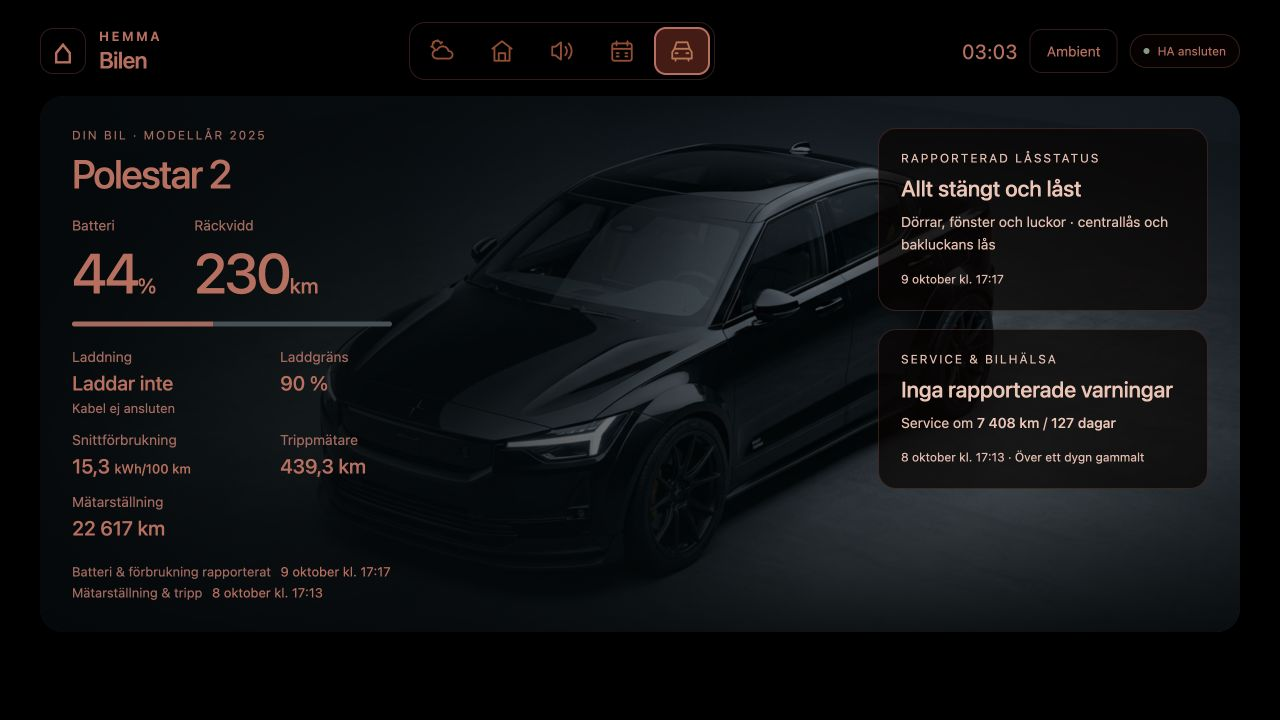
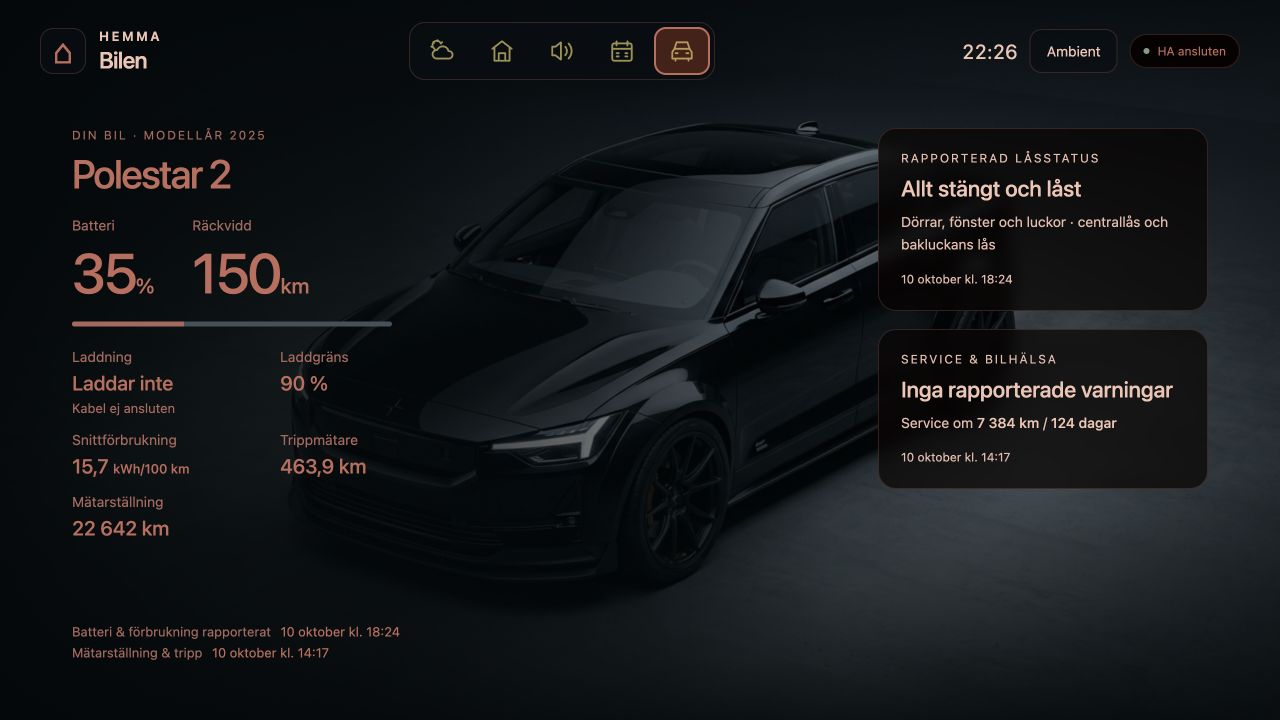
Use full-screen car backdrop behind navigation

diff --git a/src/app.css b/src/app.css
@@ -3494,3 +3494,48 @@ html[data-theme='night'] .view-car {
 .dashboard .view-nav svg {
   display: block;
 }
+
+/* Full-screen car photo; the dashboard isolates its fixed background layers. */
+.dashboard.view-car {
+  position: relative;
+  isolation: isolate;
+  max-width: none;
+  background: transparent;
+}
+.dashboard.view-car > header {
+  position: relative;
+}
+.dashboard.view-car > header::before {
+  content: '';
+  position: fixed;
+  z-index: -1;
+  inset: 0 0 auto;
+  height: 120px;
+  background: linear-gradient(180deg, rgba(7, 13, 18, 0.8), rgba(7, 13, 18, 0));
+  pointer-events: none;
+}
+.dashboard.view-car
+  > header
+  :is(.brand, .clock, .eyebrow, .theme-toggle, .view-nav button) {
+  color: #f2f5f6;
+}
+.dashboard.view-car :is(.view-nav, .theme-toggle, .brand-icon) {
+  background: rgba(7, 13, 18, 0.68);
+  border-color: rgba(255, 255, 255, 0.25);
+}
+.dashboard.view-car .view-nav button[aria-current] {
+  background: #38544b;
+  color: #fff;
+}
+html[data-theme='deep-ambient']
+  .dashboard.view-car
+  > header
+  :is(.brand, .clock, .eyebrow, .theme-toggle, .view-nav button) {
+  color: #f3c3b4;
+}
+html[data-theme='deep-ambient']
+  .dashboard.view-car
+  .view-nav
+  button[aria-current] {
+  background: #482018;
+}

diff --git a/src/lib/components/CarView.svelte b/src/lib/components/CarView.svelte
@@ -239,11 +239,11 @@
 <style>
   .car-view {
     position: relative;
-    isolation: isolate;
-    min-height: 536px;
-    border-radius: 24px;
-    overflow: hidden;
-    background: #162027;
+    isolation: auto;
+    min-height: calc(100dvh - 124px);
+    border-radius: 0;
+    overflow: visible;
+    background: transparent;
     color: #f2f5f6;
     display: flex;
     flex-direction: column;
@@ -252,7 +252,7 @@
   }
   .car-view::after {
     content: '';
-    position: absolute;
+    position: fixed;
     inset: 0;
     z-index: -2;
     background: url('/polestar.jpg') center right / cover no-repeat;
@@ -260,7 +260,7 @@
   }
   .car-view::before {
     content: '';
-    position: absolute;
+    position: fixed;
     inset: 0;
     z-index: -1;
     background:

diff --git a/static/docs/README.md b/static/docs/README.md
@@ -3,7 +3,9 @@
 Captured / Tagna: **2026-10-10**, 1280 × 720. Most images use the live Pi
 dashboard at `http://vaderstation.local:3000/?kiosk=1`. Weather day/hourly images
 were refreshed from the local development preview using the same live HA data
-to show the restored pressure and three-hour trend. The UI is Swedish; captions are provided
+to show the restored pressure and three-hour trend. Car Day/Night/Ambient images
+were also refreshed from that preview with live HA data for the approved
+full-screen photo layout. The UI is Swedish; captions are provided
 in both main README versions. Each filename describes the use case, not a permanent
 state. No image editing, synthetic values or device-control commands were used.
 Sonos grouping selection was cancelled. The browser theme was returned to Auto.
@@ -12,8 +14,7 @@ Most images show actual reported state after the 03:00 scheduled backup.
 Temperature history was temporarily unavailable in those captures; `24 h —` is
 the normal fallback. The refreshed weather images include available history.
 A manual Day theme does not change the landscape’s actual nighttime appearance.
-Device-health events show recovery after backup; car health/mileage were already
-older than one day. The calendar image uses the previously discussed two-day
+Device-health events show recovery after backup; the refreshed car images use each data domain’s own reporting time. The calendar image uses the previously discussed two-day
 Sitevisiondagarna event, without unrelated personal calendar entries.
 
 ## Updating / Uppdatering

diff --git a/README.md b/README.md
@@ -808,6 +808,11 @@ I HA betyder låssensorns `on` olåst. Okända uppgifter räknas inte som stäng
 Lås, service och mätarställning har egna rapporteringstider; efter ett dygn
 markeras äldre status. Inga lås- eller andra bilkommandon skickas från vyn.
 
+Bilfotot fyller hela skärmen, även bakom toppmenyn. Mörka toningar skyddar
+texten och menyknapparna har egna halvtransparenta underlag. På mindre skärmar
+staplas innehållet och bakgrunden ligger kvar medan sidan rullas. Bakgrunden
+finns bara i Bil-vyn och försvinner direkt vid vybyte.
+
 Bilbakgrunden har separata temaanpassningar: dagläget lyfter fotots ljusstyrka
 och använder ljusa statuskort, nattläget behåller originalbehandlingen och
 Ambient visar bilens former tydligare med dämpad bild och röda texter. Bildlagret

diff --git a/README.en.md b/README.en.md
@@ -230,6 +230,11 @@ brake fluid, coolant, washer fluid, 12 V battery and exterior lighting. Missing
 readings are dashes. Battery, security, health and mileage have independent report
 times; values older than a day are marked stale.
 
+The car photo fills the viewport, including behind the top navigation. Dark
+gradients protect the text, and menu controls have translucent backgrounds.
+On smaller screens, content stacks and the backdrop stays fixed while scrolling.
+The photo is scoped to Car and disappears immediately when switching views.
+
 Day mode brightens the photograph and uses light status cards. Night retains the
 original treatment; Ambient reveals the car more clearly with a subdued image
 and red text. Image brightness is independent of text. Security/health cards use

diff --git a/HANDOVER.md b/HANDOVER.md
@@ -111,3 +111,8 @@ mot ljusaste/mörkaste möjliga bakgrund. Kontroll och bygge passerade.
 Lufttryck och tre timmars trycktrend visas åter i vädervyn. De fyra sekundära
 mätvärdena använder två kolumner och två rader i kiosken. Saknad historik visas
 som Trycktrend saknas. Väderbilderna och båda README-versionerna är uppdaterade.
+
+Bilfotot ligger nu i fasta bakgrundslager över hela viewporten, bakom även
+toppmenyn. `.dashboard.view-car` isolerar lagerordningen; `.car-view` är
+genomskinlig. Vyspecifika menyunderlag skyddar läsbarheten. Mobilvyn staplar
+innehållet över bakgrunden. Kontroll/bygge samt vybyte och mobilbredd verifierade.

diff --git a/HANDOVER.en.md b/HANDOVER.en.md
@@ -94,3 +94,8 @@ Documentation language does not change the dashboard language.
 Weather again shows pressure and the three-hour trend. Four secondary readings
 use two columns and two rows in the kiosk. Missing history shows Trycktrend saknas.
 Weather screenshots and both README versions are updated.
+
+The car photo now uses fixed background layers across the viewport, including
+behind navigation. `.dashboard.view-car` isolates stacking; `.car-view` is
+transparent. View-specific menu surfaces protect readability. Mobile content
+stacks above the photo. Check/build, view switching and mobile width verified.
